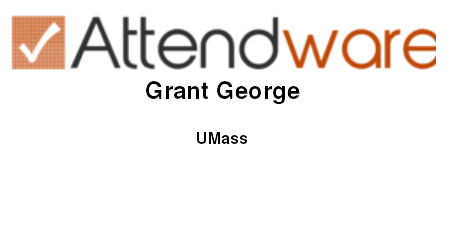
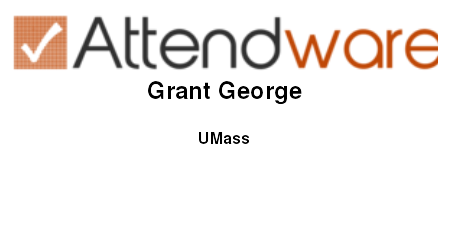
add js

Changed region(s): [[0.0, 0.056, 0.9956, 0.28], [0.3111, 0.308, 0.6844, 0.42], [0.4356, 0.532, 0.56, 0.588]]

diff --git a/application/static/js/image_capture.js b/application/static/js/image_capture.js
@@ -1,6 +1,6 @@
 var page = require('webpage').create();
-page.clipRect = { top: 0, left: 10, width: 450, height: 250 };
+page.clipRect = { top: 0, left: 8, width: 450, height: 250 };
 page.open('http://192.241.148.248/imggen/index.php/imggen/TestInput', function () {
-    page.render('image_captures/example.png');
+    page.render('../../image_captures/example.png');
     phantom.exit();
 });
